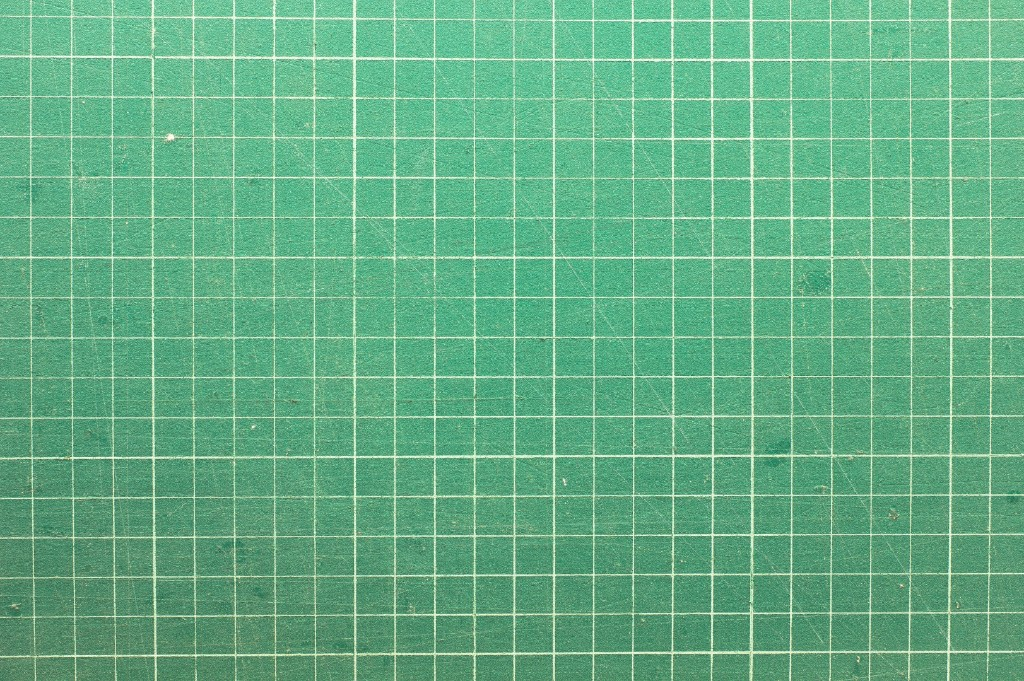
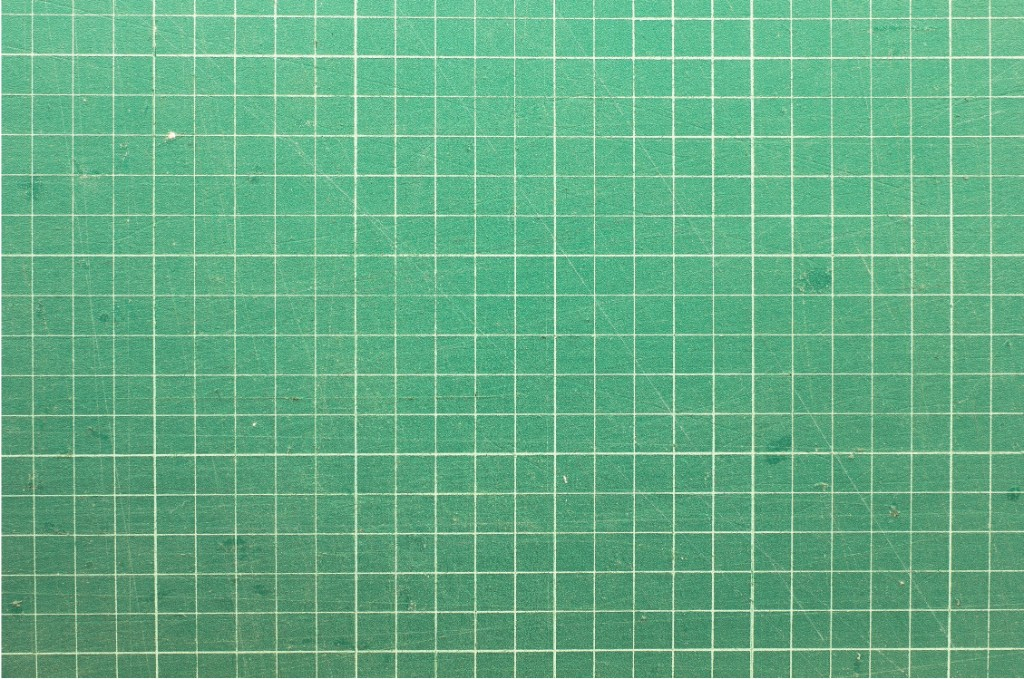
Upgrade carousel mat to four grid-aligned quarter slices.
Replace ig-green-cutting-mat-wide with higher-quality source and map slides 1–4 to contiguous 256px columns for seamless grid continuity.

Changed region(s): [[0.0, 0.0, 1.0, 1.0]]

diff --git a/lib/ig-carousel-cutting-mat-bg.js b/lib/ig-carousel-cutting-mat-bg.js
@@ -1,6 +1,6 @@
 /**
- * Shared green cutting-mat panorama for IG carousel slides 2–4.
- * Crops three contiguous columns from ig-green-cutting-mat-wide (no repeat tiling).
+ * Shared green cutting-mat panorama for IG carousel slides 1–4.
+ * Crops four grid-aligned columns from ig-green-cutting-mat-wide (no repeat tiling).
  */
 (function (root, factory) {
   const api = factory(root);
@@ -19,18 +19,19 @@
 
     const PANEL_W = 1080;
     const PANEL_H = 1350;
-    const CAROUSEL_MAT_SLIDE_COUNT = 3;
+    const CAROUSEL_MAT_SLIDE_COUNT = 4;
 
     /**
      * Source-image column boundaries as fractions of width [0..1].
-     * Three slides = two internal cuts; grid on ig-green-cutting-mat-wide aligns at ~⅓ marks.
+     * Four slides = three internal cuts on ~6px grid (1024px → 256px columns).
      */
-    const CAROUSEL_MAT_SLICE_X_FRACS = [0, 1 / 3, 2 / 3, 1];
+    const CAROUSEL_MAT_SLICE_X_FRACS = [0, 0.25, 0.5, 0.75, 1];
 
     const CAROUSEL_MAT_PAN = {
-      SLIDE_2: 0,
-      SLIDE_3: PANEL_W,
-      SLIDE_4: PANEL_W * 2
+      SLIDE_1: 0,
+      SLIDE_2: PANEL_W,
+      SLIDE_3: PANEL_W * 2,
+      SLIDE_4: PANEL_W * 3
     };
 
     const CUTTING_MAT_ASSETS = [
@@ -122,7 +123,7 @@
      * @param {HTMLImageElement|null} matImg
      * @param {number} panelW
      * @param {number} panelH
-     * @param {number} panX — 0, 1080, or 2160
+     * @param {number} panX — 0, 1080, 2160, or 3240
      */
     function drawCarouselCuttingMatBackground(ctx, matImg, panelW, panelH, panX = 0) {
       if (!matImg) {

diff --git a/our-daily-beta.html b/our-daily-beta.html
@@ -2828,18 +2828,18 @@ try {
   <script src="lib/quilt-data-service.js?v=6"></script>
   <script src="lib/contributor-cloud-compose.js"></script>
   <script src="lib/carousel-quilt-bg.js?v=5"></script>
-  <script src="lib/ig-carousel-cutting-mat-bg.js?v=5"></script>
+  <script src="lib/ig-carousel-cutting-mat-bg.js?v=6"></script>
   <script src="lib/ig-carousel-paper-depth.js?v=1"></script>
-  <script src="lib/ig-contributor-carousel-compose.js?v=26"></script>
-  <script src="lib/ig-carousel-reflection-slide-compose.js?v=26"></script>
-  <script src="lib/ig-carousel-yesterday-stats-slide-compose.js?v=23"></script>
+  <script src="lib/ig-contributor-carousel-compose.js?v=27"></script>
+  <script src="lib/ig-carousel-reflection-slide-compose.js?v=27"></script>
+  <script src="lib/ig-carousel-yesterday-stats-slide-compose.js?v=24"></script>
   <script src="lib/quilt-mirror-layout.js"></script>
   <script src="lib/archive-service.js?v=2o"></script>
   <script src="lib/quote-service.js?v=18"></script>
   <script src="lib/quilt-renderer-v2.js?v=13"></script>
   <script src="lib/app-config.js"></script>
   <script src="lib/speaker-cutout-render.js?v=32"></script>
-  <script src="lib/simplified-quilt-app-boot.js?v=248"></script>
+  <script src="lib/simplified-quilt-app-boot.js?v=249"></script>
   <script src="lib/simplified-quilt-app-quilt.js?v=77"></script>
   <script src="lib/simplified-quilt-app-share.js?v=51"></script>
   <script src="lib/simplified-quilt-app-feature-feedback.js?v=6"></script>

diff --git a/lib/simplified-quilt-app-boot.js b/lib/simplified-quilt-app-boot.js
@@ -786,7 +786,7 @@
 
     async ensureLayoutBComposeReady() {
       if (this._layoutBComposeReady) return true;
-      await this._loadDeferredScript('lib/layout-b-compose.js?v=166', 'composeInstagramLayoutBFromQuiltBlob');
+      await this._loadDeferredScript('lib/layout-b-compose.js?v=167', 'composeInstagramLayoutBFromQuiltBlob');
       await this._loadDeferredScript('lib/layout-b-carousel-strips.js?v=71', 'odqInitCarouselStripLayout');
       this._layoutBComposeReady = true;
       globalThis.ensureLayoutBComposeReady = () => this.ensureLayoutBComposeReady();

diff --git a/lib/layout-b-compose.js b/lib/layout-b-compose.js
@@ -9233,7 +9233,7 @@
                         greenCuttingMatUnderQuilt: carouselSlide1GreenMat,
                         quiltMatPeekPx: carouselQuiltMatPeekPx,
                         cuttingMatImg: carouselCuttingMatImg,
-                        matPanX: globalThis.CarouselCuttingMatBg?.CAROUSEL_MAT_PAN?.SLIDE_2 ?? 0
+                        matPanX: globalThis.CarouselCuttingMatBg?.CAROUSEL_MAT_PAN?.SLIDE_1 ?? 0
                       }
                     );
                     if (

diff --git a/lib/ig-carousel-yesterday-stats-slide-compose.js b/lib/ig-carousel-yesterday-stats-slide-compose.js
@@ -65,7 +65,7 @@
 
     function drawCuttingMatBackground(ctx, matImg, panelW, panelH) {
       const shared = getCarouselMatApi();
-      const panX = shared?.CAROUSEL_MAT_PAN?.SLIDE_2 ?? 0;
+      const panX = shared?.CAROUSEL_MAT_PAN?.SLIDE_2 ?? PANEL_W;
       if (shared?.drawCarouselCuttingMatBackground) {
         shared.drawCarouselCuttingMatBackground(ctx, matImg, panelW, panelH, panX);
         return;

diff --git a/lib/ig-contributor-carousel-compose.js b/lib/ig-contributor-carousel-compose.js
@@ -613,7 +613,7 @@ function (global) {
         cuttingMatImg,
         PANEL_W,
         MASTER_H,
-        MatBg.CAROUSEL_MAT_PAN?.SLIDE_4 ?? PANEL_W * 2
+        MatBg.CAROUSEL_MAT_PAN?.SLIDE_4 ?? PANEL_W * 3
       );
     } else {
       drawSharedQuiltBg(slide3Ctx, quiltImg, quiltRect, PANEL_W, MASTER_H, {

diff --git a/lib/ig-carousel-reflection-slide-compose.js b/lib/ig-carousel-reflection-slide-compose.js
@@ -372,7 +372,7 @@
         cuttingMatImg,
         PANEL_W,
         PANEL_H,
-        MatBg.CAROUSEL_MAT_PAN?.SLIDE_3 ?? PANEL_W
+        MatBg.CAROUSEL_MAT_PAN?.SLIDE_3 ?? PANEL_W * 2
       );
 
       const cardsMeta = drawCardsLayerOnPanel(
